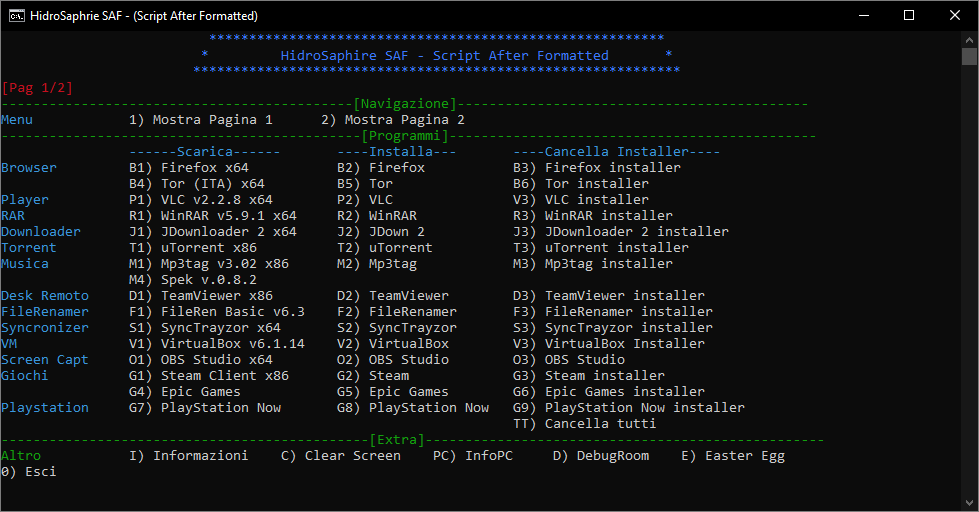
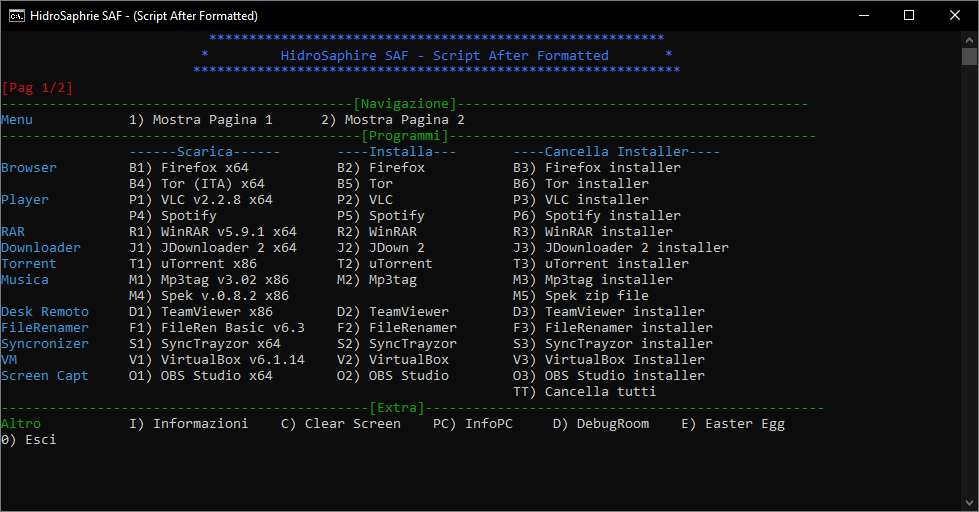
v.0.3.0 - Dancing Flamingo
Added support to "Spotify"
Delete functionality for zip files - Close #3
"Delete all" now delete all the zip files
Bugfix
DebugRoom improved

diff --git a/README.md b/README.md
@@ -17,11 +17,11 @@ An useful script (written in Batch) for Windows to download and install programs
 Why? Because Firefox is a very good open-source browser. The latest version is always the most recommended.<br/>
 Tor can be used for gain more privacy!
 
-**Movie Player** = VLC x64 (v2.2.8) + Spotify (Last Version)<br/>
+**Multimedia Player** = VLC x64 (v2.2.8) + Spotify (Last Version)<br/>
 Why? Because VLC v3 has many bug IMHO.<br/>
 Spotify is one of much used player
 
-**RAR** = WinRAR x64 (Last Version)<br/>
+**Compression** = WinRAR x64 (Last Version)<br/>
 Why? Because it's an excellent and performing program.
 
 **Downloader** = JDownloader 2 (Last Version)<br/>
@@ -49,11 +49,11 @@ Why? Because it's work fine, I never had a problem with it!
 **Screen Capture** = OBS Studio (Last Version)<br/>
 Why? Because it's simple and work fine!
 
-**Games** = Steam Client (Last Version) + Epic Games (Last Version)<br/>
-Why? Because are the most popular game library among players!
-
 **PC Monitor** = MSI Afterburner (Last Version)<br/>
 Why? Because is a "must have" application for who wants test the performance of their own pc!<br/>
+
+**Games** = Steam Client (Last Version) + Epic Games (Last Version)<br/>
+Why? Because are the most popular game library among players!
 
 **PlayStation** = PlayStation Now (Last Version)<br/>
 Why? Because is an amazing services!

diff --git a/CHANGELOG.md b/CHANGELOG.md
@@ -1,4 +1,5 @@
 ## Version List
+ - v.0.3.0 - Dancing Flamingo
  - v.0.2.4 - Glorious Elephant
  - v.0.2.3 - Glorious Owl
  - v.0.2.2 - Glorious Monkey
@@ -19,6 +20,13 @@
  - v.0.0.1 - Sparkling Atom
 
 ## Changelog
+### v.0.3.0 - Dancing Flamingo
++ Added support to "Spotify"
++ Delete functionality for zip files
++ "Delete all" now delete all the zip files
++ Bugfix
++ DebugRoom improved
+
 ### v.0.2.4 - Glorious Elephant
 + Added support to "DS4Windows"
 + Code cleaned
